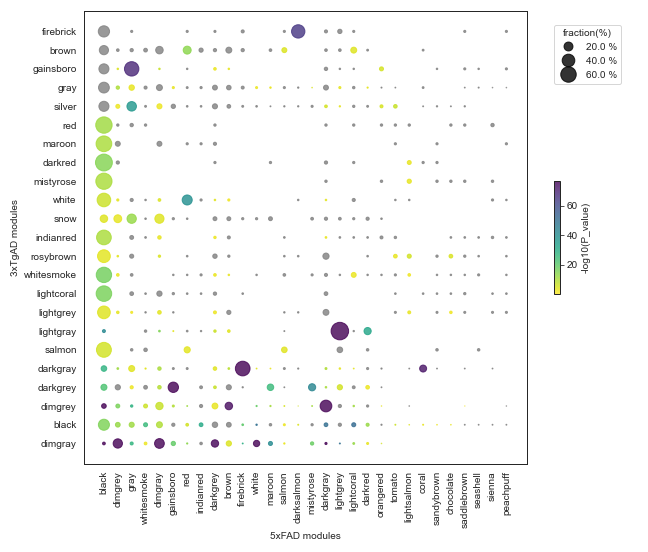
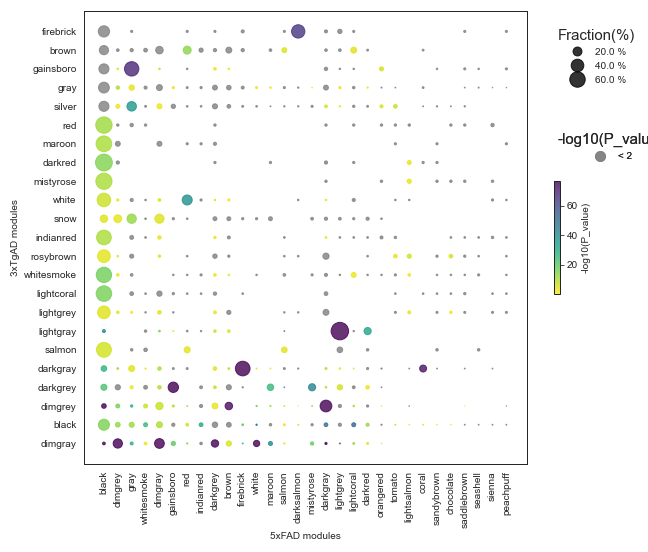
update comparison plot

Changed region(s): [[0.8642, 0.0308, 0.9877, 0.154], [0.8642, 0.2464, 1.0, 0.308]]

diff --git a/PyWGCNA/comparison.py b/PyWGCNA/comparison.py
@@ -248,13 +248,15 @@ class Comparison:
         ax.add_artist(legend1)
 
         if grey.shape[0] != 0:
-            # produce a legend with the unique colors from the scatter
-            kw = dict(prop="colors", color='grey',
-                      fmt="x < 2")
+            kw = dict(prop="sizes",
+                      num=1,
+                      color='grey',
+                      fmt="< 2")
             legend2 = ax.legend(*geyplot.legend_elements(**kw),
-                                bbox_to_anchor=(1.05, 0),
-                                loc="lower left",
-                                title="non significant")
+                                bbox_to_anchor=(1.05, 0.75),
+                                loc="upper left",
+                                title="-log10(P_value)",
+                                frameon=False)
             ax.add_artist(legend2)
 
         plt.xticks(rotation=90)

diff --git a/setup.py b/setup.py
@@ -3,7 +3,7 @@ from setuptools import setup
 setup(
     name='PyWGCNA',  # the name of your package
     packages=['PyWGCNA'],  # same as above
-    version='v0.8.3',  # version number
+    version='v0.8.4',  # version number
     license='MIT',  # license type
     description='PyWGCNA is a Python package designed to do Weighted correlation network analysis (WGCNA)',
     # short description

diff --git a/PyWGCNA/wgcna.py b/PyWGCNA/wgcna.py
@@ -33,6 +33,7 @@ warnings.filterwarnings("ignore")
 plt.rcParams["axes.edgecolor"] = "black"
 plt.rcParams["axes.linewidth"] = 1
 plt.rcParams["axes.facecolor"] = "white"
+plt.rcParams['legend.title_fontsize'] = 15
 
 sns.set_style("white")
 
